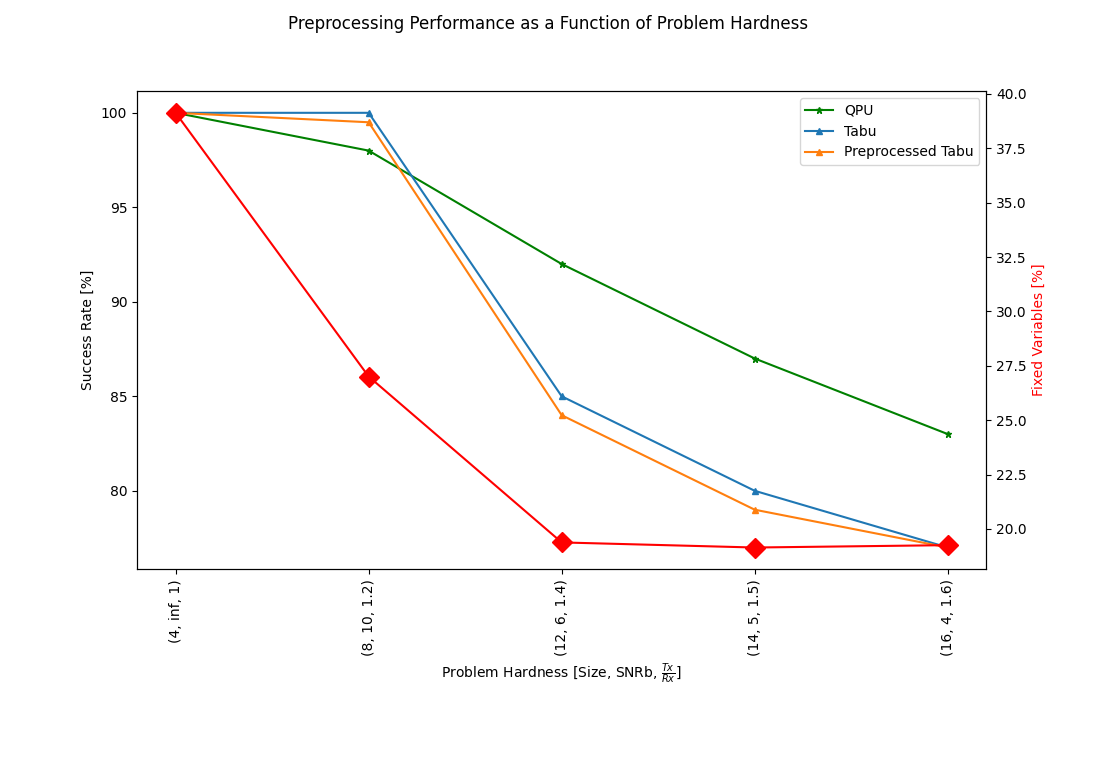
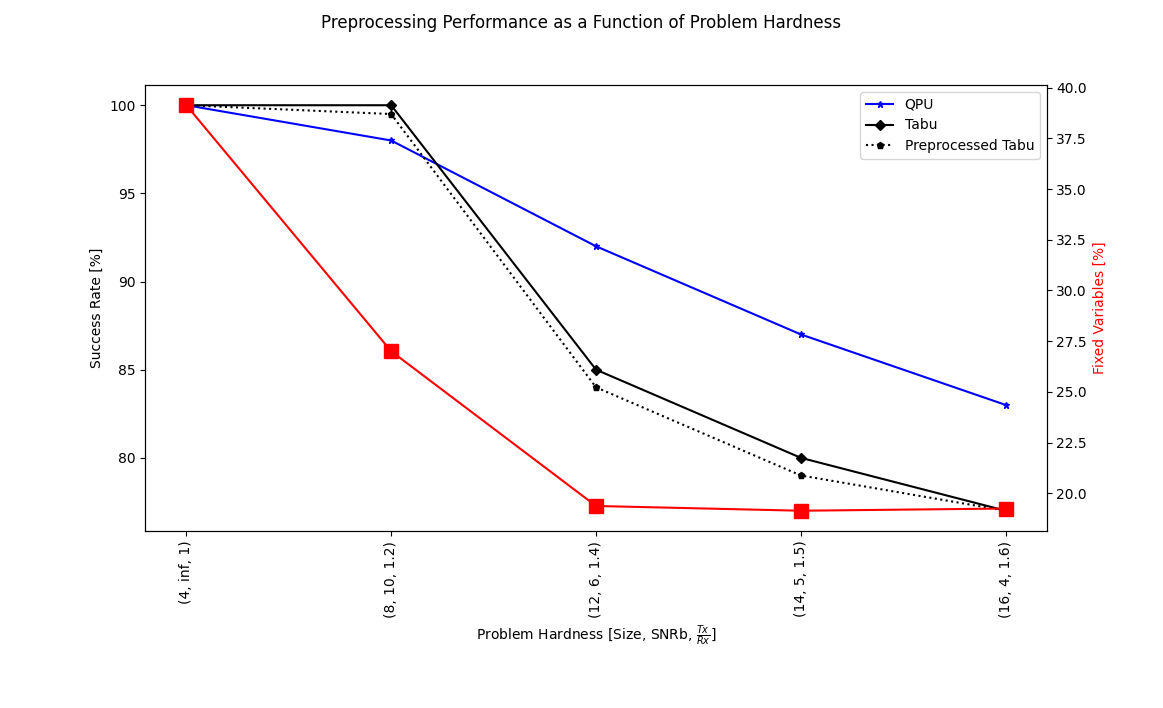
Jack's review: update graphics and fix texts

diff --git a/helpers/draw.py b/helpers/draw.py
@@ -17,6 +17,9 @@ import networkx as nx
 import numpy as np
 import dwave_networkx as dnx
 
+styles = {'QPU': 'b*', 'zero_forcing': 'g^', 'MMSE': 'mv', 'matched_filter': 'y>', 
+    'SA': 'rx', 'greedy': 'cp', 'tabu': 'kD'}
+
 def draw_network(network):
     """Plot the given network.
 
@@ -51,7 +54,8 @@ def draw_loop_comparison(results, network_size=16, ratio=1.5, SNRb=5):
     fig = plt.figure(figsize=(8, 3))
 
     for key in results:
-        plt.plot(results[key], "*-", label=key, markersize=5)
+        plt.plot(results[key], styles[key], label=key, markersize=5)
+        plt.plot(len(results[key])*[np.mean(results[key])], styles[key][0])
 
     plt.xlabel("Run")
     plt.ylabel("Success Rate [%]")
@@ -72,7 +76,7 @@ def draw_instantiation_times(times, network_sizes):
     fig = plt.figure(figsize=(8, 3))
 
     for key in times:
-        plt.plot(times[key], "*-", label=key, markersize=5)
+        plt.plot(times[key], styles[key] + '-', label=key, markersize=5)
 
     plt.xlabel("Network Size")
     plt.ylabel("Instantiation Time [ms]")
